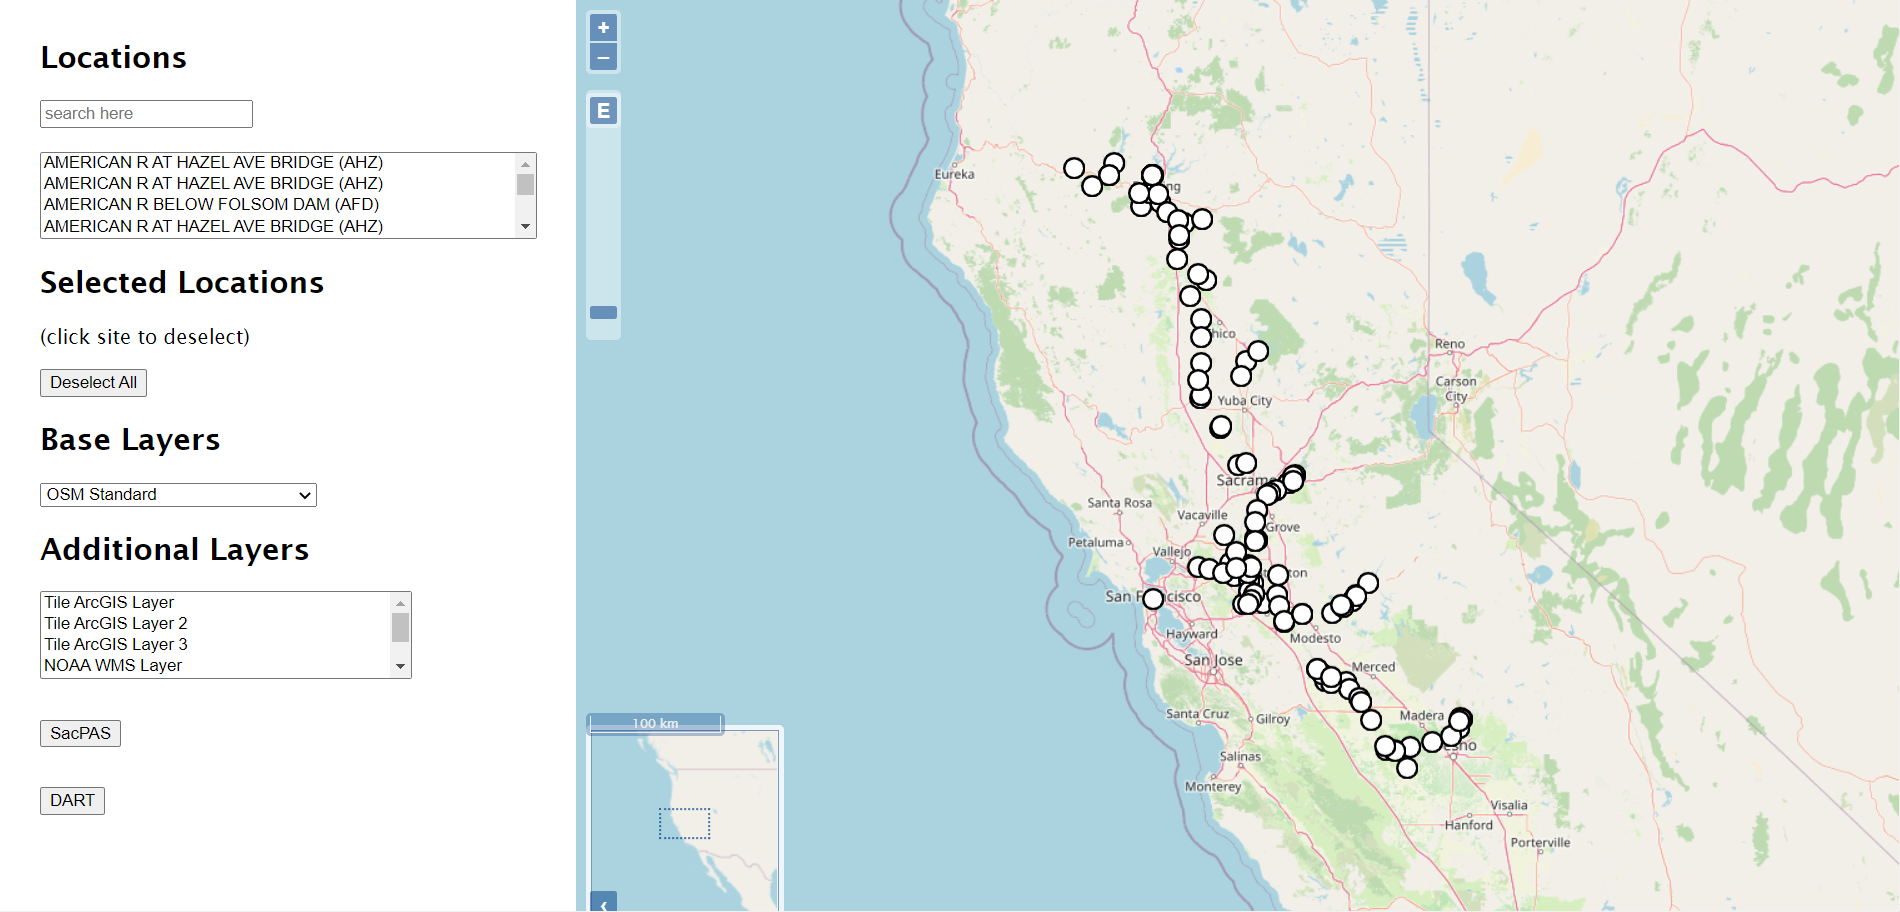
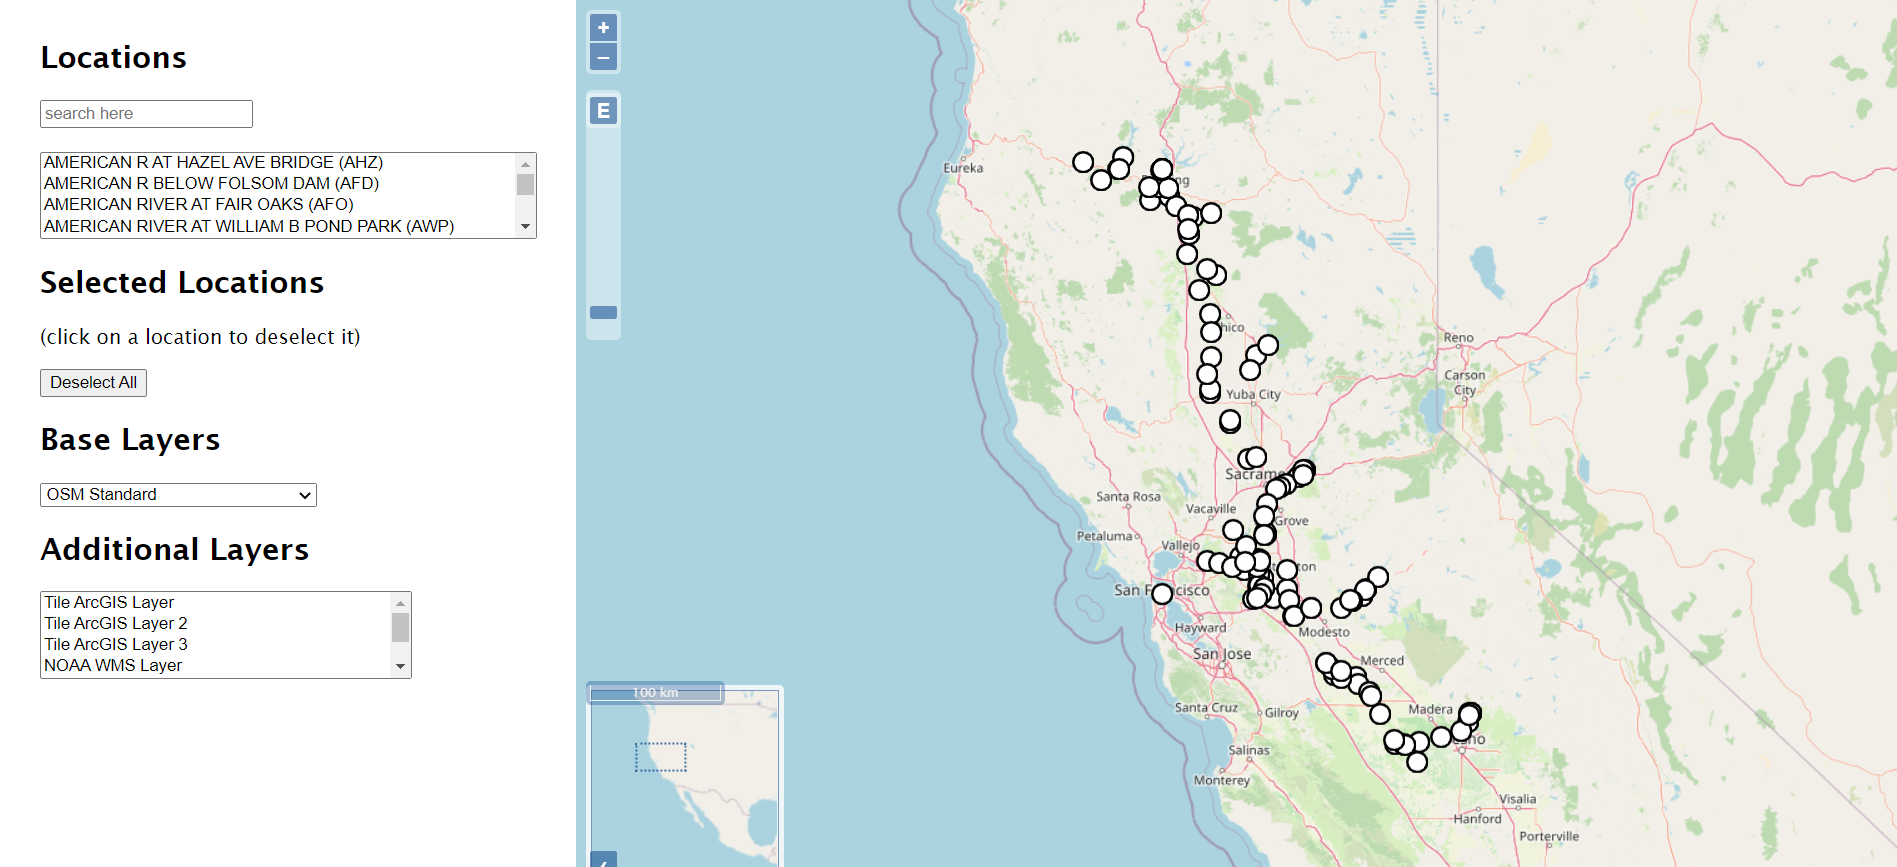
Centers set for map views

diff --git a/js/view.js b/js/view.js
@@ -5,7 +5,9 @@ const map = new ol.Map({
         // center: [-13392860.93604214, 6011494.743803331],
         // center: ol.proj.transform([-120.740135, 47.751076], 'EPSG:4326', 'EPSG:3857'),
         // center: ol.proj.transform([-120.740135, 38.751076], 'EPSG:4326', 'EPSG:3857'),
-        center: ol.proj.transform([-120.740135, 42.751076], 'EPSG:4326', 'EPSG:3857'),
+        // center: ol.proj.transform([-120.740135, 42.751076], 'EPSG:4326', 'EPSG:3857'),
+        // center: [-13500000, 5000000],
+        center: [0, 0],
         zoom: 7,
         maxZoom: 16,
         minZoom: 6,
@@ -19,4 +21,10 @@ const map = new ol.Map({
     controls: controls
 });
 
+function setCenterPoint(long, lat) {
+    map.getView().setCenter([long, lat]);
+    console.log(map.getView().getCenter());
+}
+
 export default map;
+export { setCenterPoint };

diff --git a/js/DART_main.js b/js/DART_main.js
@@ -1,4 +1,5 @@
 import map from './view.js';
+import { setCenterPoint } from './view.js';
 import baseLayerGroup from './base_layers.js';
 import rasterLayerGroup from './raster_layers.js';
 import { locationGeoJSON2, source2 } from './vector_layers.js';
@@ -10,6 +11,9 @@ import initLocations from './locations.js';
 window.onload = init
 
 function init() {
+
+    // set view center
+    setCenterPoint(-13200000, 5800000);
     
     map.on('click', function(e) {
         console.log(e.coordinate);

diff --git a/js/SacPAS_main.js b/js/SacPAS_main.js
@@ -1,4 +1,5 @@
 import map from './view.js';
+import { setCenterPoint } from './view.js';
 import baseLayerGroup from './base_layers.js';
 import rasterLayerGroup from './raster_layers.js';
 import { locationGeoJSON, source } from './vector_layers.js';
@@ -11,6 +12,9 @@ window.onload = init
 
 function init() {
     
+    // set view center
+    setCenterPoint(-13450000, 4700000);
+
     map.on('click', function(e) {
         console.log(e.coordinate);
     });

diff --git a/js/locations.js b/js/locations.js
@@ -5,10 +5,10 @@ const locationsSet = new Set();
 const selectedLocationsSet = new Set();
 
 // fill set containing all locations
-function initLocations(param) {
+function initLocations(source) {
     locationsSet.clear();
     selectedLocationsSet.clear();
-    Object.values(param).forEach(location => {
+    Object.values(source).forEach(location => {
         locationsSet.add(location)
     });
     locationsSet.forEach((location) => {
